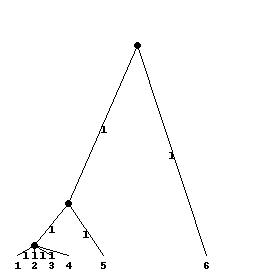
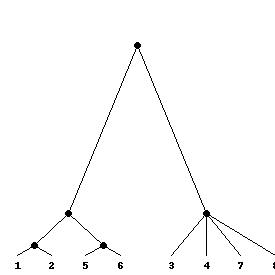
updating gitignore to ignore examples generated

diff --git a/treegame/treegameTK.py b/treegame/treegameTK.py
@@ -6,20 +6,25 @@ import tropicalLines as tl
 import os
 from PIL import Image, ImageDraw
 
+#set num of leaves
+n = 8
+
 ##colors for PIL
 white = (255, 255, 255)
 black = (0, 0, 0)
 
 window = Tk()
 
-u = tl.tree_to_dict([9,13,13,15,15,13,13,15,15,10,15,15,15,15,12], 6)
-v = tl.tree_to_dict([11,8,11,14,15,11,7,14,15,11,14,15,14,15,15], 6)
+u = tl.tree_to_dict([10,200,200,2,10,200,200,200,200,10,6,200,200,12,200,200,4,12,200,200,12,8,10,200,200,200,200,12], n)
+v = tl.tree_to_dict([200,400,600,800,800,800,800,400,600,800,800,800,800,600,800,800,800,800,800,800,800,800,600,600,600,400,400,200], n)
+
+# u = tl.tree_to_dict([9,13,13,15,15,13,13,15,15,10,15,15,15,15,12], 6)
+# v = tl.tree_to_dict([11,8,11,14,15,11,7,14,15,11,14,15,14,15,15], 6)
 # u = tl.tree_to_dict([3,3,2], 3)
 # v = tl.tree_to_dict([1,3,3], 3)
 
 width = height = 275
 
-n = 6
 # u = {(1, 2): 10, (2, 1): 10, (1, 3): 10, (3, 1): 10, (1, 4): 10, (4, 1): 10, (1, 5): 10, (5, 1): 10, (2, 3): 4, (3, 2): 4, (2, 4): 8, (4, 2): 8, (2, 5): 8, (5, 2): 8, (3, 4): 8, (4, 3): 8, (3, 5): 8, (5, 3): 8, (4, 5): 5, (5, 4): 5}
 # v = {(1, 2): 9, (2, 1): 9, (1, 3): 9, (3, 1): 9, (1, 4): 9, (4, 1): 9, (1, 5): 10, (5, 1): 10, (2, 3): 7, (3, 2): 7, (2, 4): 7, (4, 2): 7, (2, 5): 10, (5, 2): 10, (3, 4): 6, (4, 3): 6, (3, 5): 10, (5, 3): 10, (4, 5): 10, (5, 4): 10}
 
@@ -74,7 +79,7 @@ def print_tree(i, vt, ed, folder_name):
 		start = (start[0], start[1])
 		end = (end[0], end[1])
 		draw.line([start[0],start[1],end[0],end[1]], fill=black)
-		draw.text(((start[0] + end[0])/2 - 2, (start[1] + end[1])/2), 'l', (0,0,0))
+		#draw.text(((start[0] + end[0])/2 - 2, (start[1] + end[1])/2), 'l', (0,0,0))
 
 	for v in vt:
 		if v[1] == -1:
@@ -87,8 +92,6 @@ def print_tree(i, vt, ed, folder_name):
 
 	filename = folder_name + '/tree_' + str(i) + '.jpg'
 	image1.save(filename)
-
-#print_trees('example')
 
 def draw_tree(vt, ed, canvas_name):
 	##PIL image to draw in parallel and save
@@ -115,6 +118,10 @@ def draw_tree(vt, ed, canvas_name):
 			##if it's an internal vertex, draw a node
 			draw_circle(v[0], v[1], 3, canvas_name)
 			# draw.ellipse(get_bounding_box(v[0], v[1], 3), fill=black)
+
+##define print button
+def click_print():
+	print_trees('example')
 
 ##define button clicks
 def click_n():
@@ -264,8 +271,12 @@ window.configure(background="white")
 Label(window, text='Tree Game', bg="white", fg="black", font="none 24").grid(row=0, column=0)
 
 ##text entry box
-enter_n = Entry(window, width=5)
-enter_n.grid(row=1, column=0)
+# enter_n = Entry(window, width=5)
+# enter_n.grid(row=1, column=0)
+
+##button to print trees to png
+button_print = Button(window, text="print", width=5, bg="white", fg="black", command=click_print)
+button_print.grid(row=1,column=0)
 
 ##create a button
 button_n = Button(window, text="update n", width=8, bg="white", fg="black", command=click_n)

diff --git a/docs/README.md b/docs/README.md
@@ -1,0 +1,1 @@
+# Documentation
